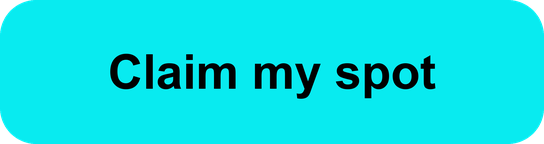
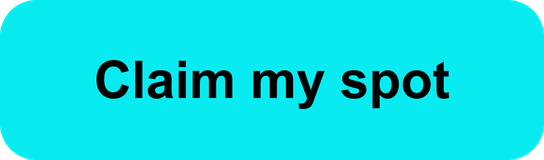
Harden the answer page and enlarge the button pictures
- An old tab can no longer overwrite a newer answer: the token leaves the
  address once the answer is saved.
- More retries, clearer messages for incomplete links and when scripts are off.
- Buttons are taller, for easier tapping on phones.

diff --git a/index.html b/index.html
@@ -17,6 +17,7 @@ header{display:flex;align-items:center;gap:14px;margin:0 0 26px}
 .tier{border-left:1px solid #46555c;padding-left:14px;color:var(--cyan);font-size:12px;font-weight:750;letter-spacing:.2em}
 .card{background:#111b20;border:1px solid var(--line);border-top:3px solid var(--cyan);border-radius:16px;padding:clamp(23px,5vw,38px)}
 h1{margin:0 0 12px;line-height:1.12;font-size:clamp(28px,5vw,40px);letter-spacing:-.045em}
+h1:focus{outline:none}
 p{color:var(--muted);margin:0}
 strong{color:var(--ink)}
 button{margin-top:20px;font:inherit;font-weight:700;cursor:pointer;color:#000;background:var(--cyan);border:0;border-radius:10px;min-height:48px;padding:10px 22px}
@@ -24,13 +25,15 @@ button:hover{background:#66f2f5}
 button:focus-visible{outline:3px solid #fff;outline-offset:4px}
 [hidden]{display:none}
 </style>
+<noscript><style>#text{display:none}</style></noscript>
 </head>
 <body>
 <main>
-<header aria-label="Benzabet Ultimate"><span class="brand">BENZABET</span><span class="tier">ULTIMATE</span></header>
+<header><span class="brand">BENZABET</span><span class="tier">ULTIMATE</span></header>
 <section class="card">
-<h1 id="title">Benzabet Ultimate</h1>
+<h1 id="title" tabindex="-1">Benzabet Ultimate</h1>
 <p id="text">Use the buttons in your invitation email to answer.</p>
+<noscript><p>Your answer could not be saved because scripts are switched off in this browser. Please open the link in another browser.</p></noscript>
 <button type="button" id="go" hidden>Unsubscribe</button>
 </section>
 </main>
@@ -39,22 +42,54 @@ button:focus-visible{outline:3px solid #fff;outline-offset:4px}
   // Where answers are recorded: the Google Sheet's script. Players never see this address.
   var RECORD_URL = 'https://script.google.com/macros/s/AKfycbxUNRhIGC0sv59LzfFwYGaQBRSEH0HBKqqA6Xyf7wePKTnGXrUMwQQiDKWpfW4Khdml/exec';
   var LABELS = { claim: 'Claim my spot', maybe: 'Maybe', no: 'No' };
+  var WAITS = [1500, 3000, 6000, 12000, 24000];
 
   var params = new URLSearchParams(location.search);
   var token = params.get('t') || '';
-  var action = params.get('a') || '';
+  // A few mail apps turn the "&" in a link into "&amp;", which arrives as a parameter named "amp;a".
+  var action = params.get('a') || params.get('amp;a') || '';
   var title = document.getElementById('title');
   var text = document.getElementById('text');
   var button = document.getElementById('go');
-  if (!/^[0-9a-f]{32}$/.test(token)) return;
+
+  function known(name) { return Object.prototype.hasOwnProperty.call(LABELS, name); }
+
+  function show(heading, body, strong) {
+    title.textContent = heading;
+    document.title = heading.replace(/[.?]$/, '') + ' | Benzabet Ultimate';
+    text.textContent = body;
+    if (strong) {
+      var mark = document.createElement('strong');
+      mark.textContent = strong;
+      text.appendChild(mark);
+      text.appendChild(document.createTextNode('.'));
+    }
+  }
+  function thanks(name) { show('Thank you for answering.', 'Your answer: ', LABELS[name]); }
+
+  // Once an answer has been saved, the private token is taken out of the address (see forget).
+  // A tab reopened or reloaded later then shows the thank-you again without sending anything,
+  // so an old tab can never overwrite a newer answer.
+  if (params.get('done') === '1' && known(action)) { thanks(action); return; }
+
+  if (!/^[0-9a-f]{32}$/.test(token)) {
+    if (known(action) || action === 'unsub') show('This link is incomplete.', 'Please press the button in the email again.');
+    return;
+  }
 
   // Sent without cookies, so it works the same whether or not the player is signed in to Google.
-  function record(what, triesLeft) {
+  function record(what, attempt, onSaved, onFailed) {
     fetch(RECORD_URL + '?t=' + token + '&a=' + what, {
       method: 'POST', mode: 'no-cors', credentials: 'omit', cache: 'no-store', keepalive: true, body: 'r=1'
-    }).catch(function () {
-      if (triesLeft > 1) setTimeout(function () { record(what, triesLeft - 1); }, 1500);
+    }).then(function () {
+      if (onSaved) onSaved();
+    }, function () {
+      if (attempt < WAITS.length) setTimeout(function () { record(what, attempt + 1, onSaved, onFailed); }, WAITS[attempt]);
+      else if (onFailed) onFailed();
     });
+  }
+  function forget(what) {
+    try { history.replaceState(null, '', location.pathname + '?a=' + what + '&done=1'); } catch (e) { /* old browser: nothing to do */ }
   }
 
   // Mail security scanners open links without showing them to anyone. Record only once a
@@ -71,24 +106,24 @@ button:focus-visible{outline:3px solid #fff;outline-offset:4px}
     check();
   }
 
-  if (LABELS[action]) {
-    title.textContent = 'Thank you for answering.';
-    text.textContent = '';
-    text.appendChild(document.createTextNode('Your answer: '));
-    var answer = document.createElement('strong');
-    answer.textContent = LABELS[action];
-    text.appendChild(answer);
-    text.appendChild(document.createTextNode('.'));
-    whenSeen(function () { record(action, 3); });
+  if (known(action)) {
+    thanks(action);
+    whenSeen(function () { record(action, 0, function () { forget(action); }); });
   } else if (action === 'unsub') {
-    title.textContent = 'Unsubscribe?';
-    text.textContent = 'Stop Benzabet Ultimate emails to this address.';
+    show('Unsubscribe?', 'Stop Benzabet Ultimate emails to this address.');
     button.hidden = false;
     button.addEventListener('click', function () {
       button.hidden = true;
-      title.textContent = 'You’re unsubscribed.';
-      text.textContent = 'You won’t get more Benzabet Ultimate emails at this address.';
-      record('unsub', 3);
+      show('One moment...', '');
+      title.focus();
+      record('unsub', 0, function () {
+        show('You are unsubscribed.', 'You will not get more Benzabet Ultimate emails at this address.');
+        title.focus();
+      }, function () {
+        show('Unsubscribe?', 'We could not save this just now. Please try again.');
+        button.hidden = false;
+        button.focus();
+      });
     });
   }
 })();
